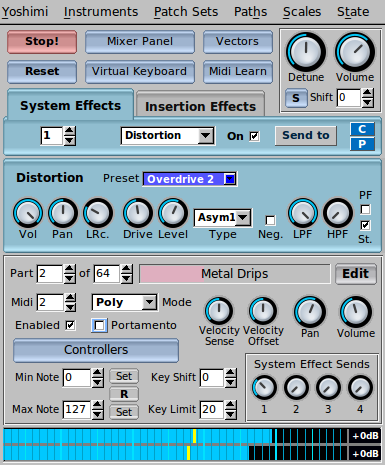
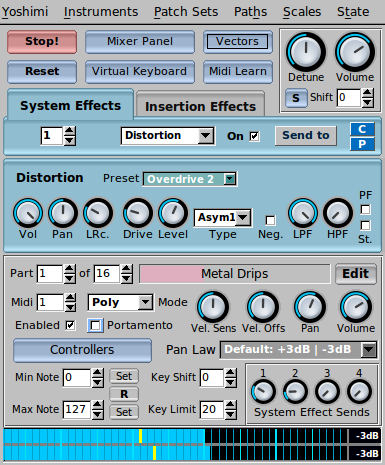
Update screenshots for 1.7.0
Main window now shows the Pan Law dropdown. Controllers window
and the aftertouch settings are added to the screenshots.

diff --git a/sources/screenshots.html b/sources/screenshots.html
@@ -84,11 +84,22 @@
     Vector configuration - for controlling parameters with a joystick.
   </figcaption>
   </figure>
-  
   <figure>
   <img alt="instrument search" src="img/ui/InstrumentSearch.png" />
   <figcaption>
     Instrument search - making it easier to locate instruments by types
+  </figcaption>
+  </figure>
+  <figure>
+  <img alt="part controller settings" src="img/ui/Controllers.png" />
+  <figcaption>
+    Per-part controllers of various dynamic properties; filters, panning, bandwidth, etc.
+  </figcaption>
+  </figure>
+  <figure>
+  <img alt="aftertouch settings" src="img/ui/AftertouchSettings.png" />
+  <figcaption>
+    Basic settings for which aspects of a part aftertouch can affect, by key and/or channel.
   </figcaption>
   </figure>
 </div>
